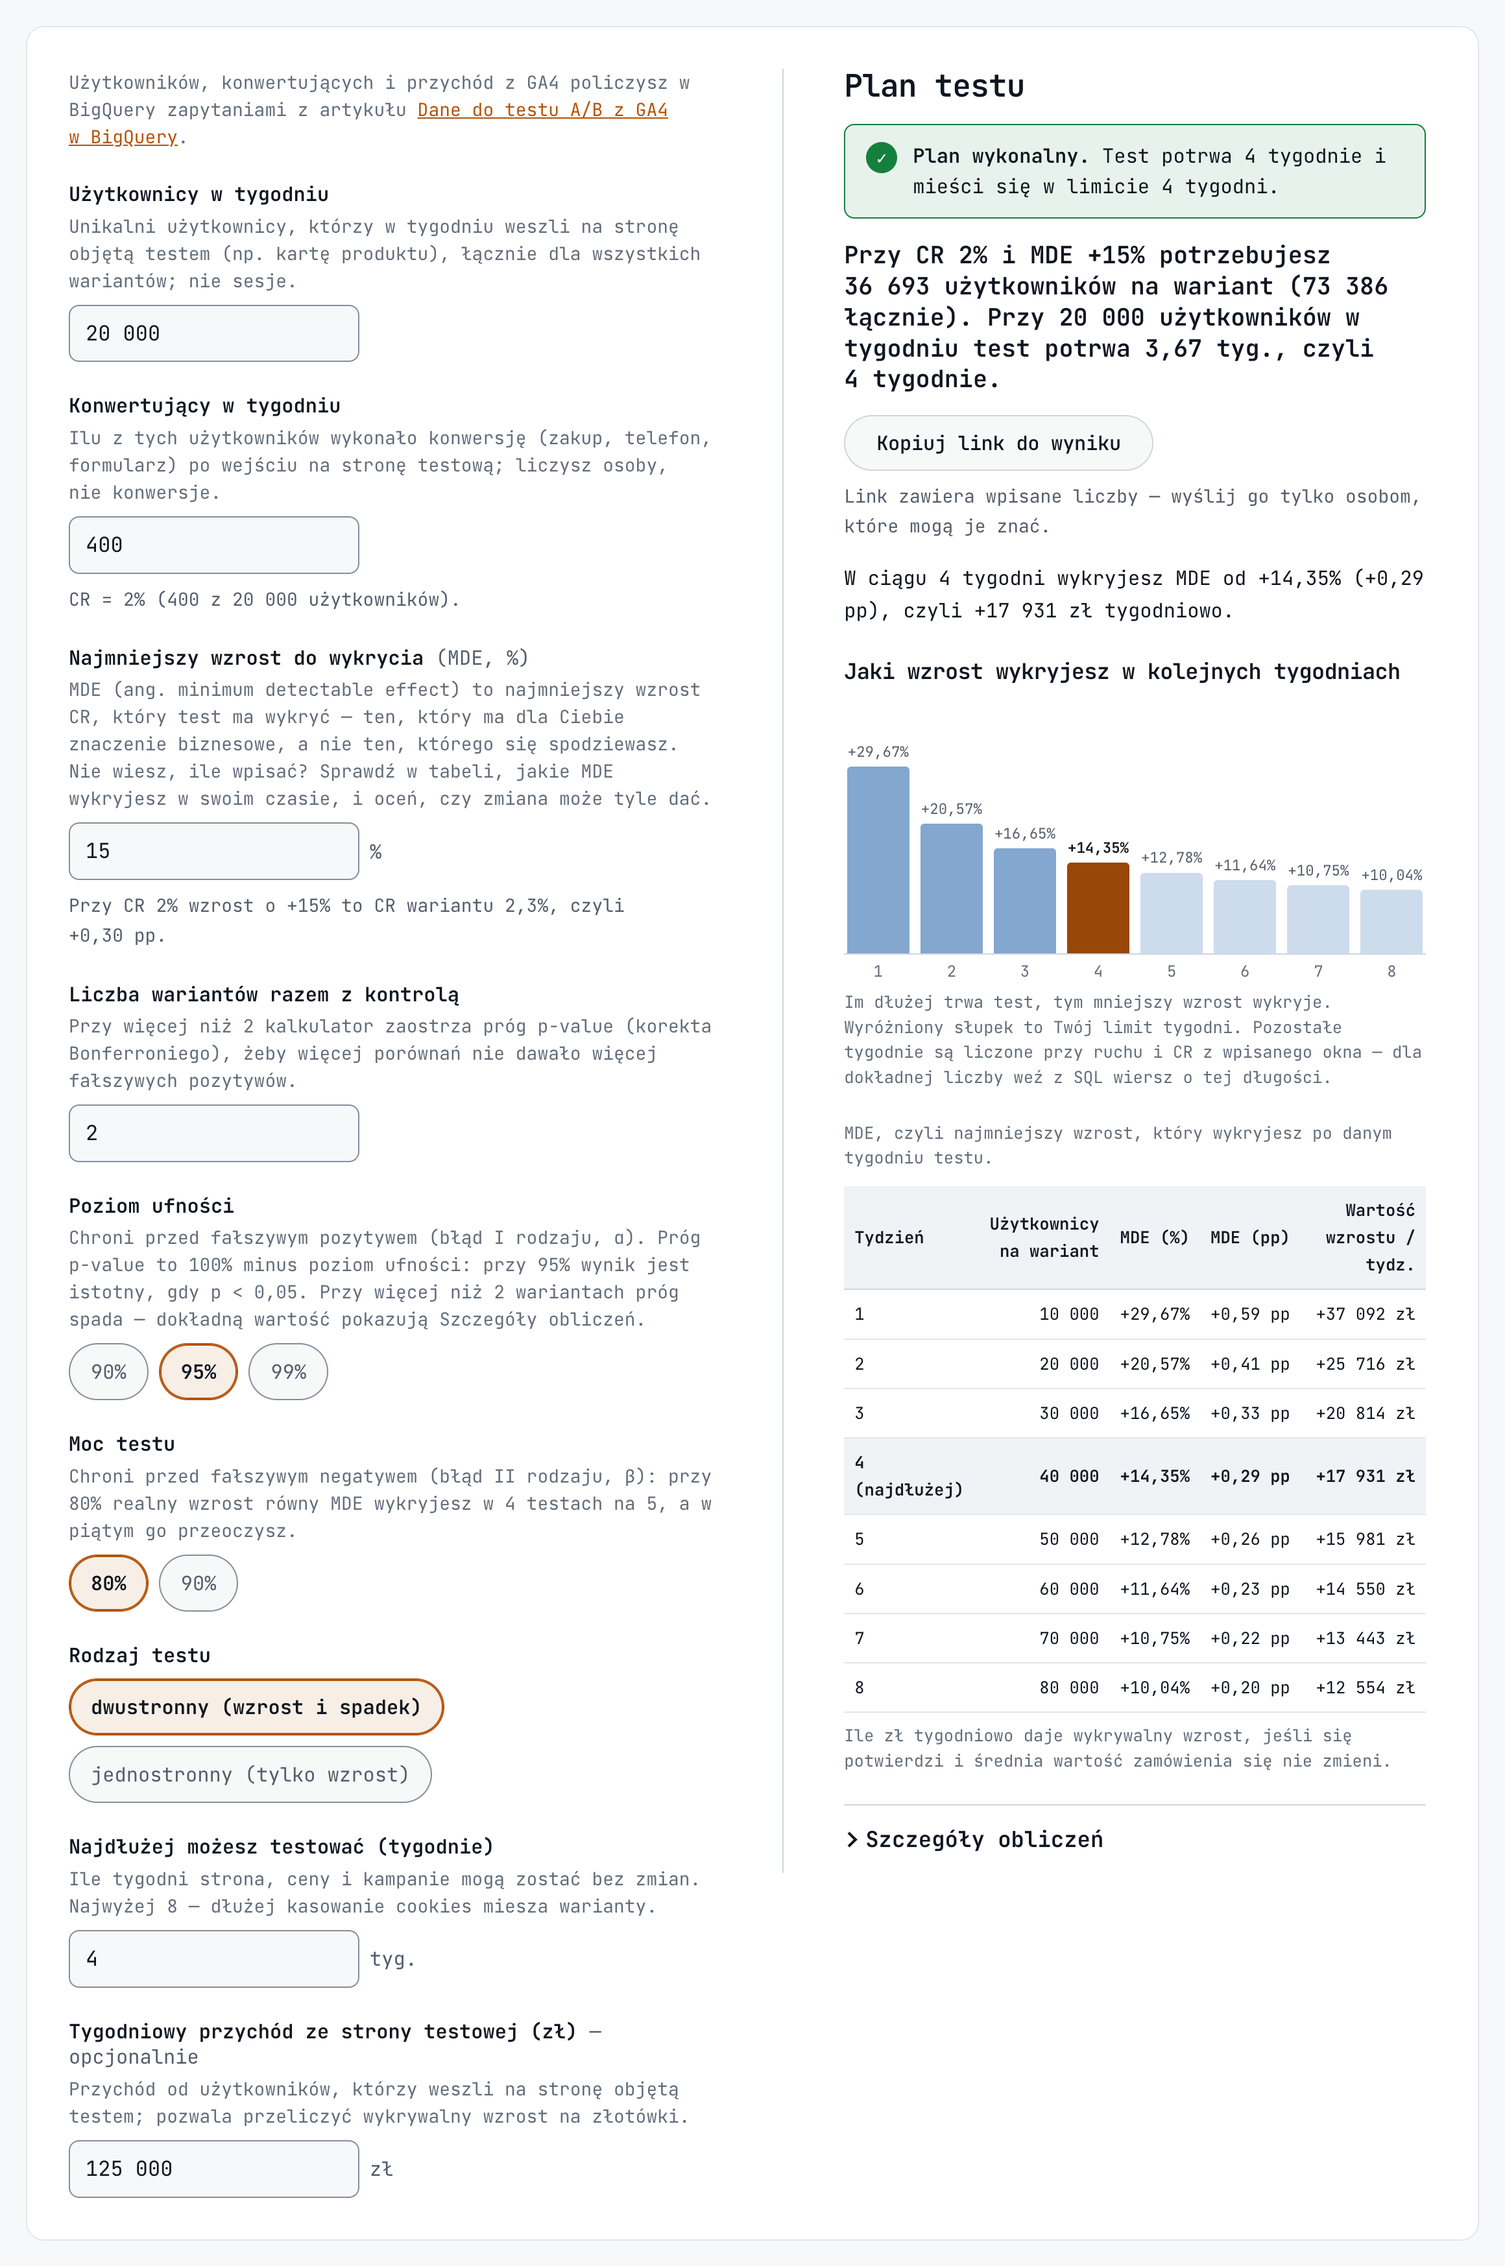
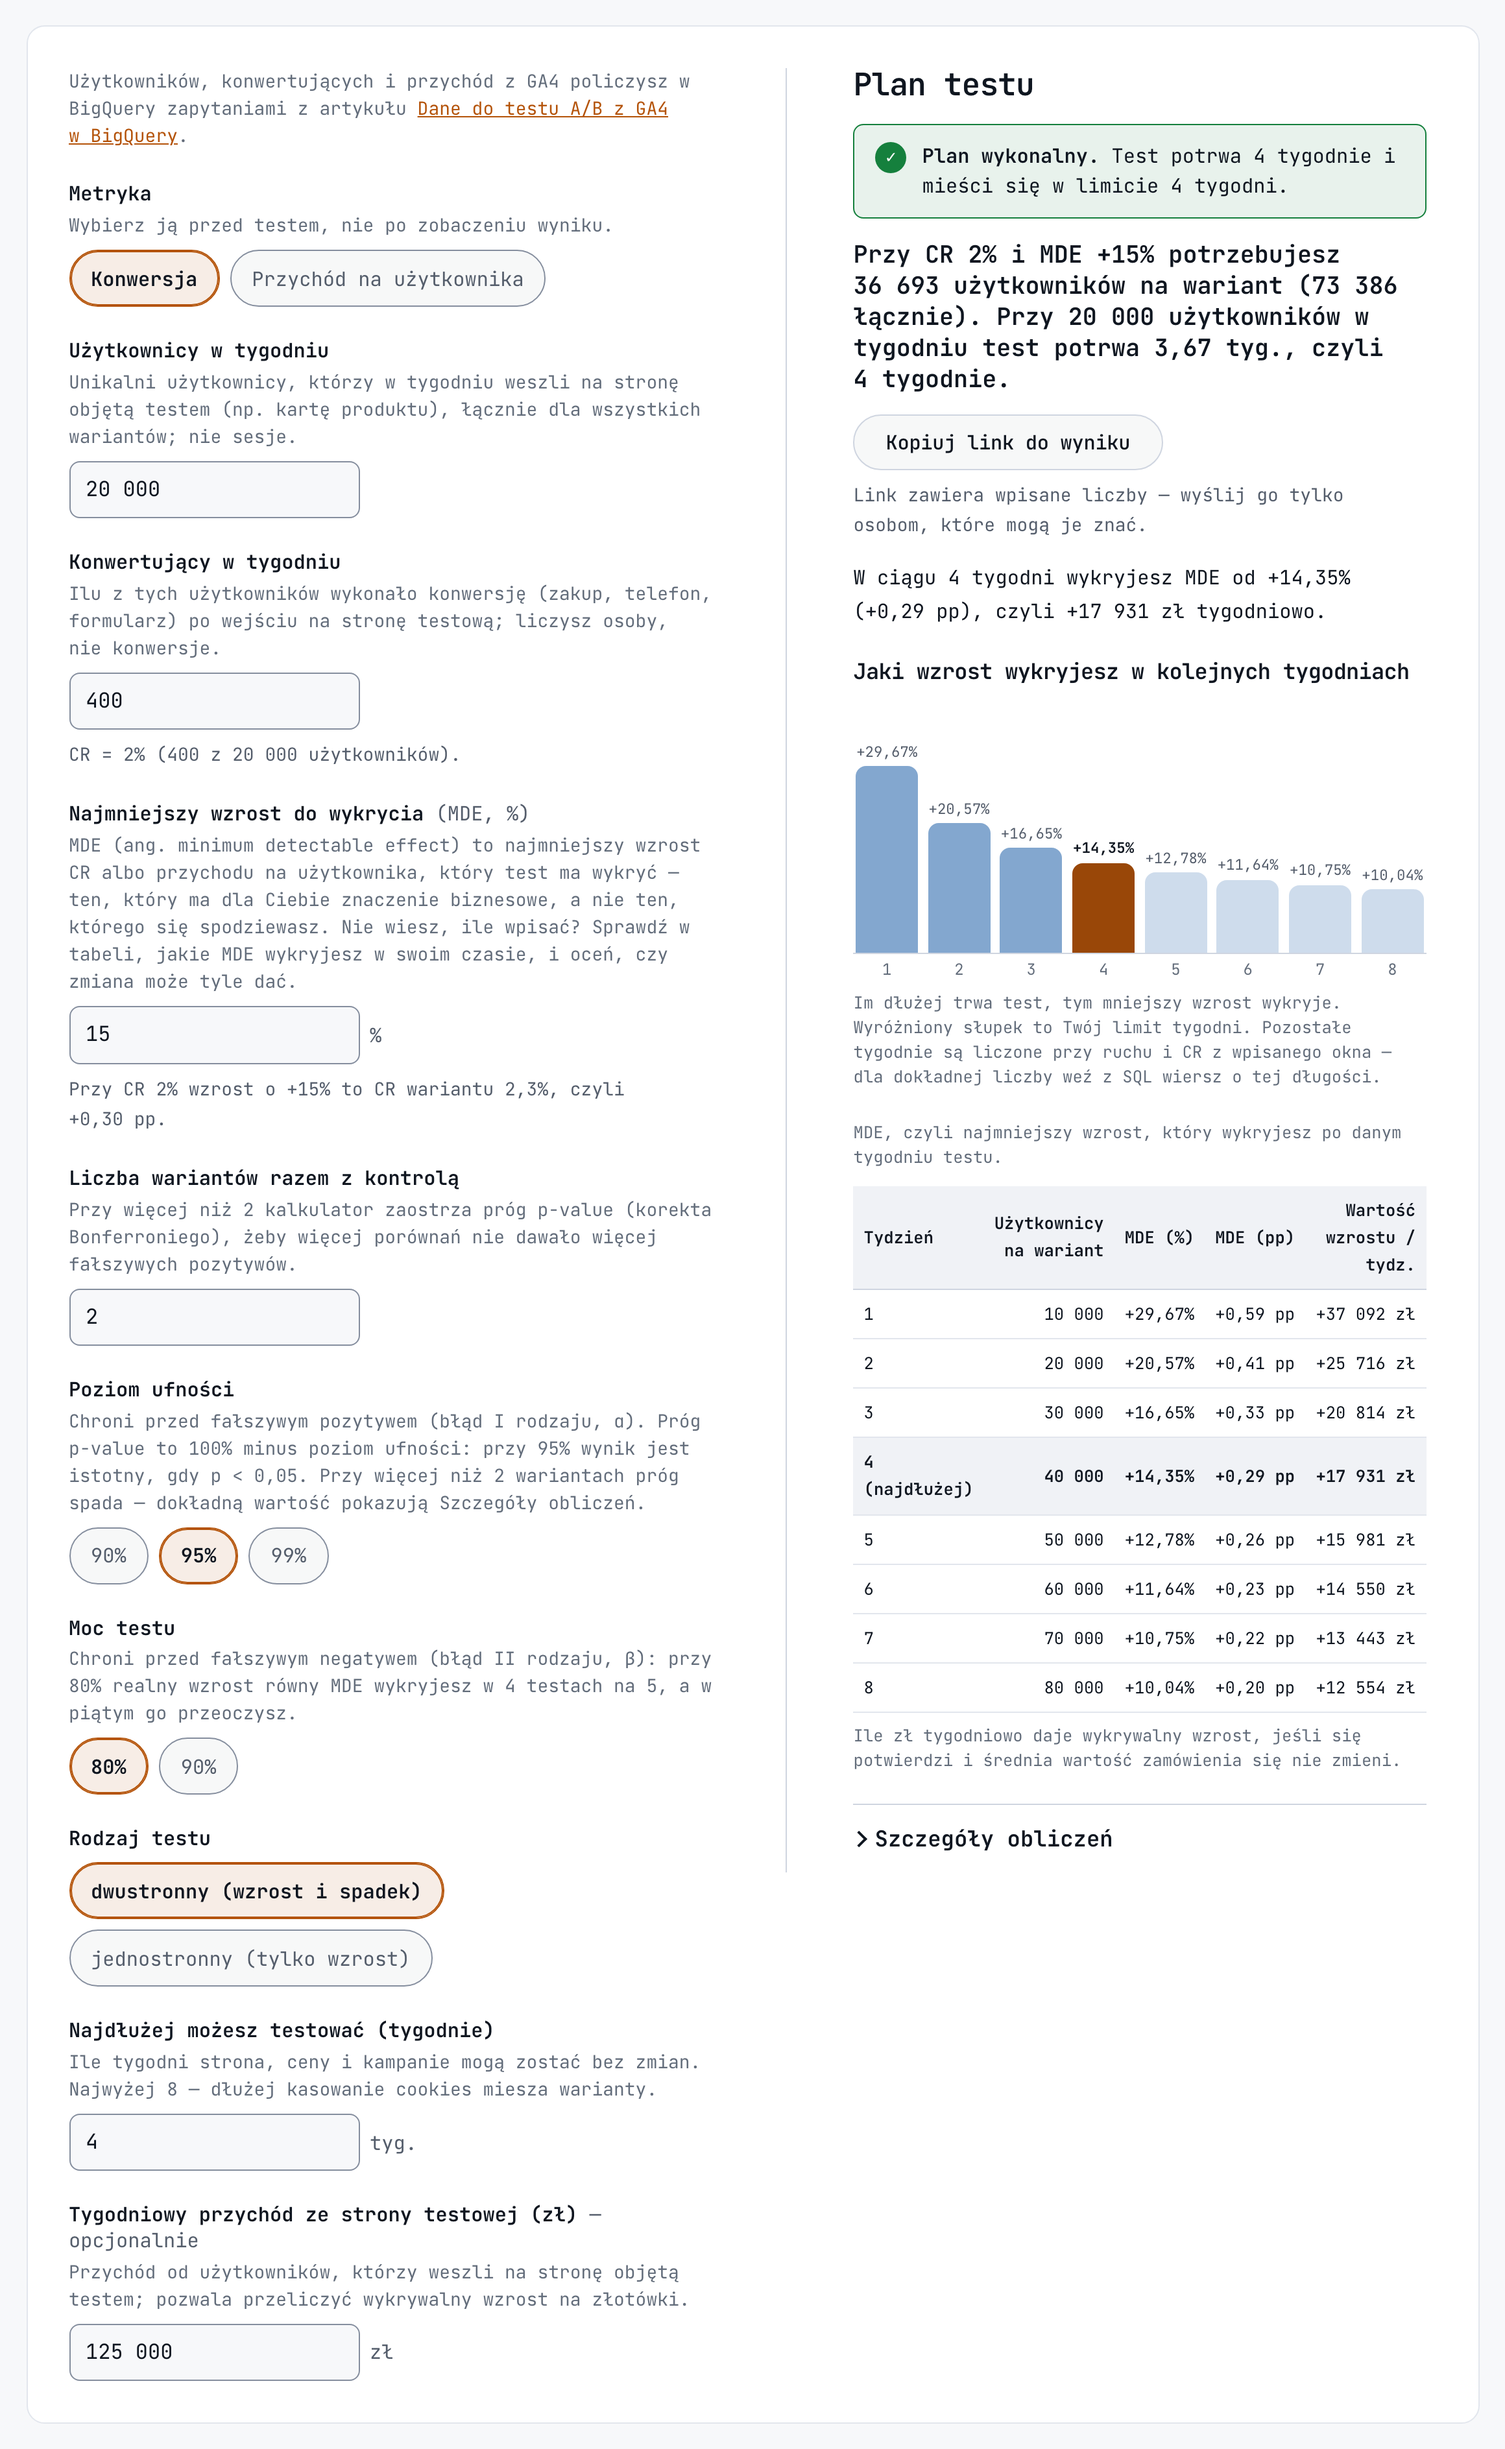
docs: konwersja i przychód na użytkownika, nowe zrzuty kalkulatorów
docs: sekcja o konwersji i przychodzie na użytkownika, nowe zrzuty kalkulatorów
Zrzuty obu kalkulatorów w trybie konwersji i przychodu na użytkownika.
Sekcja Skrypty GTM skrócona do tabeli.

diff --git a/README.md b/README.md
@@ -41,21 +41,22 @@ Dlaczego okna, a nie jeden tydzień: test trwa kilka tygodni, a ludzie wracają.
 
 ## Skrypty GTM
 
-Folder [`gtm/`](gtm/) losuje wariant w przeglądarce, zapisuje go w first-party cookie i wysyła `ab_assign` ([metoda z artykułu](https://pmdata.pl/artykuly/wlasne-testy-ab-gtm-firebase/)). SQL niczego nie losuje — `03` czyta wariant z `ab_assign` i z parametru o nazwie slotu. Każdy test ma własny slot `ab1`–`ab10` (ciasteczko i parametr eventu), więc testy na różnych stronach, np. karta produktu i checkout, trwają równolegle.
+| Plik [`gtm/`](gtm/) | Slot | Co robi |
+|---|---|---|
+| [`01_dwa_warianty`](gtm/01_dwa_warianty.html) | `ab1` (A/A), `ab2`, `ab5` | `v0`/`v1` po 50% |
+| [`02_trzy_warianty`](gtm/02_trzy_warianty.html) | `ab3` | `v0`/`v1`/`v2` po 1/3 |
+| [`03_dwa_warianty_50_procent`](gtm/03_dwa_warianty_50_procent.html) | `ab4` | 50% ruchu w teście, reszta `out` |
+| [`04_rozszerzenie_do_100_procent`](gtm/04_rozszerzenie_do_100_procent.html) | `ab4` | zamiast `03`: przydziały zostają, `out` dostaje wariant |
 
-| Plik | Klucz | Co robi | Gdzie w GTM |
-|---|---|---|---|
-| [`01_dwa_warianty.html`](gtm/01_dwa_warianty.html) | `ab1` (A/A), `ab2`, `ab5` (checkout) | `v0`/`v1` po 50%, cały ruch strony testowej | Tag → Custom HTML |
-| [`02_trzy_warianty.html`](gtm/02_trzy_warianty.html) | `ab3` | `v0`/`v1`/`v2` po 1/3 | Tag → Custom HTML |
-| [`03_dwa_warianty_50_procent.html`](gtm/03_dwa_warianty_50_procent.html) | `ab4` | 50% ruchu w teście (`v0`/`v1` po 25%), reszta `out` — poza analizą | Tag → Custom HTML |
-| [`04_rozszerzenie_do_100_procent.html`](gtm/04_rozszerzenie_do_100_procent.html) | `ab4` | podmiana kodu tagu z `03`: przydziały zostają, `out` i nowi dostają wariant | ten sam tag co `03` |
-| — | jedna na slot | wartość ciasteczka slotu jako parametr `abN` na eventach GA4; `out` pomija SQL | Zmienna → Własny plik cookie |
+## Konwersja czy przychód na użytkownika
 
-Konfiguracja tagów, zmiennych i procedura każdego testu (start, koniec) jest opisana w notatkach elementów w kontenerze GTM — zacznij od notatki tagu `AB - ab1`. Reguła, którą pilnuje repo: ciasteczko trzyma sam wariant i żyje 60 dni, więc test w tym samym slocie startuje ponad 60 dni po końcu poprzedniego — sprawdza to `sprawdz_konfiguracje_testow` w dbt.
+Oba kalkulatory mają przełącznik „Metryka”. Wybierasz go przed testem, w planie, i tę samą metrykę bierzesz do oceny.
 
-Pierwszy test po wdrożeniu to test A/A w slocie `ab1`: skrypt `01`, ale `v1` niczego na stronie nie zmienia. Sprawdza konfigurację, zanim zaufasz prawdziwym wynikom — oczekiwane: brak alarmu SRM i wynik nieistotny w kalkulatorze Po teście. SRM = błąd w losowaniu, tagach lub danych; napraw, zanim ruszy test `ab2`. Istotna różnica CR bez SRM to jeszcze nie dowód błędu — przy 95% ufności co 20. poprawny test A/A wyjdzie istotny przez przypadek — sprawdź tagi i dane, a gdy są w porządku, powtórz A/A. Dwa tygodnie wystarczą: test nie szuka efektu, tylko błędu.
-
-Rozszerzenie `03` → `04` zmienia skalę testu, nie jego przebieg: kto miał wariant, zostaje w nim. Dawni `out` wchodzą do analizy od dnia rozszerzenia, ale wcześniej widzieli obecną wersję strony — gdy to przeszkadza, `INCLUDE_OUT = false` wpuszcza tylko nowych. Plan z kalkulatora Przed testem liczyłeś dla 50% ruchu — po rozszerzeniu użytkownicy zbierają się 2× szybciej, więc kończysz po pierwszym pełnym tygodniu, w którym każdy wariant ma liczbę użytkowników z planu.
+- **Konwersja (CR)**, czyli konwertujący / użytkownicy, odpowiada na pytanie, czy więcej osób kupuje. Nie widzi zmiany wartości koszyka. Upsell, który obniża CR o 2%, a podnosi koszyk o 10%, wyjdzie w CR jako przegrana.
+- **Przychód na użytkownika (RPU)**, czyli przychód wariantu / jego użytkownicy, to to samo co CR × przychód na kupującego. Łapie obie zmiany naraz, bliżej mu do pieniędzy, które biznes widzi w sprzedaży. Mianownik się nie zmienia: wszyscy użytkownicy, także ci bez zakupu z przychodem 0 zł.
+- **RPU potrzebuje więcej użytkowników**, bo przychód ma większy rozrzut niż informacja „kupił / nie kupił”. Kohavi, Tang i Xu w *Trustworthy Online Controlled Experiments* pokazują to na przykładzie kuponu: wskaźnik zakupu (0/1) ma mniejszą wariancję niż przychód, więc szybciej wykrywa efekt. W rozdziale 18 (wariancja i czułość testu) zalecają przycinanie (capping) wartości skrajnych. Rachunek: przy CR = p i zmienności koszyka CV = odchylenie / średnia względna wariancja CR to ok. 1 / p, a RPU ok. (1 + CV²) / p. Przy CV = 1 to 2× więcej użytkowników przy tym samym MDE.
+- **Na przykładowych danych** ta sama strona i to samo MDE +15% dają przy CR 36 693 użytkowników na wariant (4 tygodnie), a przy RPU 41 905 (5 tygodni). Wynik testu z `03`, który przy CR kończy się „Wdrażaj B”, przy RPU kończy się „Wstrzymaj decyzję”: 36 700 użytkowników to za mało dla planu RPU (zrzuty niżej).
+- **Jedno duże zamówienie** potrafi przesądzić średnią, dlatego `01`, `03` i model dbt przycinają przychód osoby do 99,9 percentyla przychodu kupujących, a zamówienie liczą raz na `transaction_id`. Która metryka decyduje, ustalasz przed startem: sprawdzanie po wyniku, która wyszła istotna, to dwa testy zamiast jednego i większa szansa na fałszywego zwycięzcę.
 
 ## Kalkulator Przed testem
 
@@ -63,13 +64,15 @@ Rozszerzenie `03` → `04` zmienia skalę testu, nie jego przebieg: kto miał wa
 
 ![Kalkulator Przed testem wypełniony przykładowymi danymi, z przychodem](docs/img/przed-testem.png)
 
+![Kalkulator Przed testem w trybie przychodu na użytkownika: 41 905 użytkowników na wariant, plan niewykonalny w limicie 4 tygodni](docs/img/przed-testem-przychod.png)
+
 - **MDE (najmniejszy wzrost do wykrycia)** — próg biznesowy, nie prognoza: najmniejszy wzrost wart czasu testu, a nie ten, którego się spodziewasz. Względny: +15% przy CR 2% to +0,30 pp (2% → 2,3%). Optymizm skraca test, a potem test nie wykrywa realnego, mniejszego wzrostu.
 - **MDE rządzi długością testu** — liczba użytkowników rośnie z 1 / MDE²: przy CR 2% +15% → 36 693 na wariant, +10% → 80 682, +5% → 315 206. Słupki i tabela pokazują, jakie MDE wykryjesz po każdym tygodniu. Gdy w limicie wykryjesz najwyżej +25%, a zmiana realnie da +5%, test niczego nie rozstrzygnie.
 - **Poziom ufności i moc** — ufność chroni przed fałszywym alarmem (α = 1 − ufność: przy 95% co 20. test bez efektu pokaże różnicę), moc przed przeoczeniem (przy 80% realny wzrost równy MDE wykryjesz w 4 testach na 5). Wyższe wartości = dłuższy test.
 - **Liczba wariantów razem z kontrolą** — każde porównanie z kontrolą to kolejna szansa na fałszywy alarm, więc przy 3+ próg p-value to α / (k − 1) (korekta Bonferroniego): 3 warianty przy 95% → 0,025 i więcej użytkowników.
 - **Rodzaj testu** — jednostronny wymaga ~21% mniej użytkowników, ale nie wykaże, że wariant szkodzi. Wybierasz przed testem: zmiana po wyniku robi z p = 0,09 wynik 0,045.
 - **Limit tygodni i stan planu** — pełne tygodnie, najwyżej 8: dłużej kasowanie cookies miesza warianty, a sezonowość zmienia to, co mierzysz. Ponad 6 tygodni = „Plan ryzykowny”, ponad limit = „Plan niewykonalny” z MDE, które wykryjesz w limicie. „poza zasięgiem” w tabeli = przy tej liczbie użytkowników nie wykryjesz realistycznego wzrostu.
-- **Metryka: przychód na użytkownika (RPU)** — przełącznik obok konwersji. RPU = przychód wariantu / jego użytkownicy, czyli CR × przychód na kupującego, więc łapie też zmianę wartości koszyka. Pola „Przychód na użytkownika (zł)” i „Odchylenie przychodu na użytkownika (zł)” bierzesz z `01` (`revenue_per_user`, `revenue_sd`). Próbę liczy wzór dla średniej: n = 2·(z_α + z_β)²·σ² / (RPU × MDE)². Przychód rozrzuca się bardziej niż sama konwersja — względna wariancja rośnie o ok. 1 + CV² wartości zamówienia, przy typowym CV ≈ 1 to ok. 2× więcej użytkowników. Częściej zobaczysz więc „Plan ryzykowny” albo „Plan niewykonalny” w limicie 8 tygodni. Metrykę wybierasz przed testem.
+- **Metryka: przychód na użytkownika (RPU)** — pola „Przychód na użytkownika (zł)” i „Odchylenie przychodu na użytkownika (zł)” bierzesz z `01` (`revenue_per_user`, `revenue_sd`). Próbę liczy wzór dla średniej: n = 2·(z_α + z_β)²·σ² / (RPU × MDE)². Większy rozrzut przychodu wydłuża test (sekcja wyżej), więc częściej zobaczysz „Plan ryzykowny” albo „Plan niewykonalny”.
 - **Przekazanie do „Po teście”** — „Użytkownicy na wariant” wpisujesz w „Wymagani użytkownicy na wariant”. Plan zapisuje się w karcie przeglądarki, więc „Po teście” otwarty w tej samej karcie wstawi go przyciskiem „Wstaw z planu”.
 
 ## Kalkulator Po teście
@@ -78,11 +81,13 @@ Rozszerzenie `03` → `04` zmienia skalę testu, nie jego przebieg: kto miał wa
 
 ![Kalkulator Po teście wypełniony przykładowymi danymi, z danymi z planu i przychodem](docs/img/po-tescie.png)
 
+![Kalkulator Po teście w trybie przychodu na użytkownika: wzrost istotny, ale decyzja wstrzymana, bo test zebrał mniej użytkowników niż plan RPU](docs/img/po-tescie-przychod.png)
+
 - **Dane z planu (opcjonalne)** — „Wymagani użytkownicy na wariant” (na jeden wariant, nie tygodniowy ruch ani suma) i MDE z „Przed testem”. Bez nich werdykt zależy tylko od p-value, które najłatwiej oszukać zaglądaniem do wyniku w trakcie. Z nimi kalkulator wstrzymuje decyzję, gdy test zatrzymano przed 95% planu albo przedłużano ponad 125%. Liczby wpisane ręcznie sprawdza z MDE przy mocy 80% — rozjazd ponad 25% to ostrzeżenie o niespójnym planie.
 - **p-value** — prawdopodobieństwo wyniku co najmniej tak skrajnego, gdyby wzrostu nie było; nie prawdopodobieństwo, że B jest lepsze. Kalkulator pokazuje dwu- i jednostronne, werdykt bierze rodzaj testu z planu.
 - **Zakres możliwego wzrostu** — przedział ufności na poziomie z planu (przy 3+ wariantach po korekcie Bonferroniego: 95% → 97,5%). Obejmuje zero = realnie może być wzrost, brak zmiany albo spadek. Przy teście jednostronnym to przedział 1 − 2α (przy 95% ufności: 90%), zgodny z progiem testu.
 - **Wpływ na przychód** — przychód tygodniowy × zakres wzrostu; do budżetu bierz dolną granicę. Przy alarmie SRM kalkulator nie pokazuje złotówek. W trybie konwersji zakłada niezmienioną wartość zamówienia, bo test mierzył CR; w trybie przychodu na użytkownika zakres obejmuje też zmianę koszyka.
-- **Metryka: przychód na użytkownika** — pola „Przychód na użytkownika A / B (zł)” i „Odchylenie przychodu A / B (zł)” bierzesz z `03` (`revenue_per_user`, `revenue_sd`). Ocena to test z dla różnicy średnich, SE = √(sd_A²/n_A + sd_B²/n_B), zamiast testu dla dwóch proporcji; werdykt, zakres i SRM czytasz tak samo. Przychód osoby jest przycięty do 99,9 percentyla, żeby jedno duże zamówienie nie przesądziło wyniku. Z tych samych danych zakres wychodzi szerszy niż przy CR. Metrykę decyzyjną wybierasz przed testem — sprawdzanie po wyniku, która z dwóch wyszła istotna, zwiększa szansę fałszywego zwycięzcy.
+- **Metryka: przychód na użytkownika** — pola „Przychód na użytkownika A / B (zł)” i „Odchylenie przychodu A / B (zł)” bierzesz z `03` (`revenue_per_user`, `revenue_sd`). Ocena to test z dla różnicy średnich, SE = √(sd_A²/n_A + sd_B²/n_B), zamiast testu dla dwóch proporcji; werdykt, zakres i SRM czytasz tak samo. Z tych samych danych zakres wychodzi szerszy niż przy CR.
 - **Winner's curse (klątwa zwycięzcy)** — istotny wzrost mniejszy niż MDE z planu znaczy, że test miał słabą moc, a istotne wyniki takich testów zawyżają wzrost. Stąd stan „Wdrażaj B, ale licz na mniej, niż zmierzono”.
 - **SRM (sample ratio mismatch)** — sprawdza, czy A i B dostały po równo (50/50). Alarm przy p < 0,001 = błąd w losowaniu albo w danych, np. B ładuje się wolniej i gubi użytkowników; wtedy wyniku nie interpretujesz.
 - **Mniej niż 10 konwersji** (albo osób bez konwersji) w którymś wariancie, tryb konwersji — test z to przybliżenie, przy tak małych liczbach p-value i zakres są niewiarygodne. Istotny wynik → Wstrzymaj decyzję, nieistotny → tylko ostrzeżenie.
